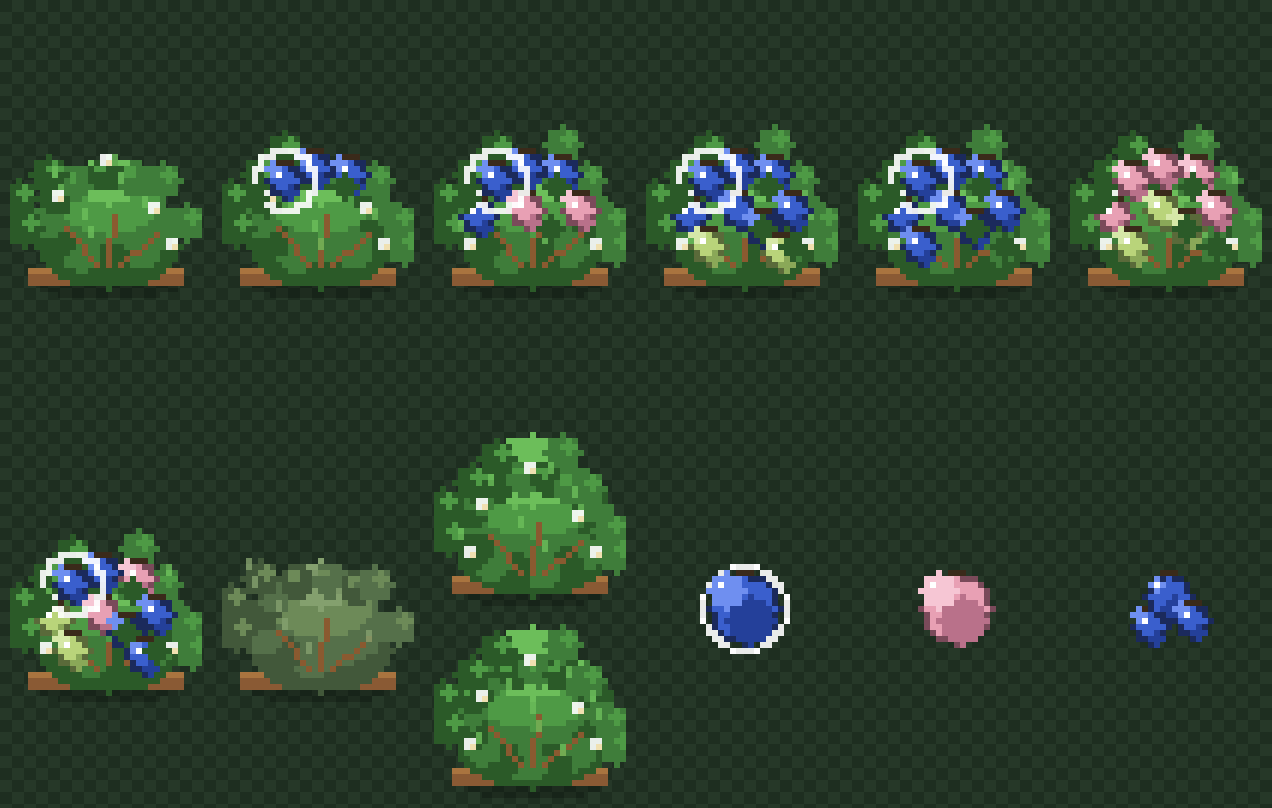
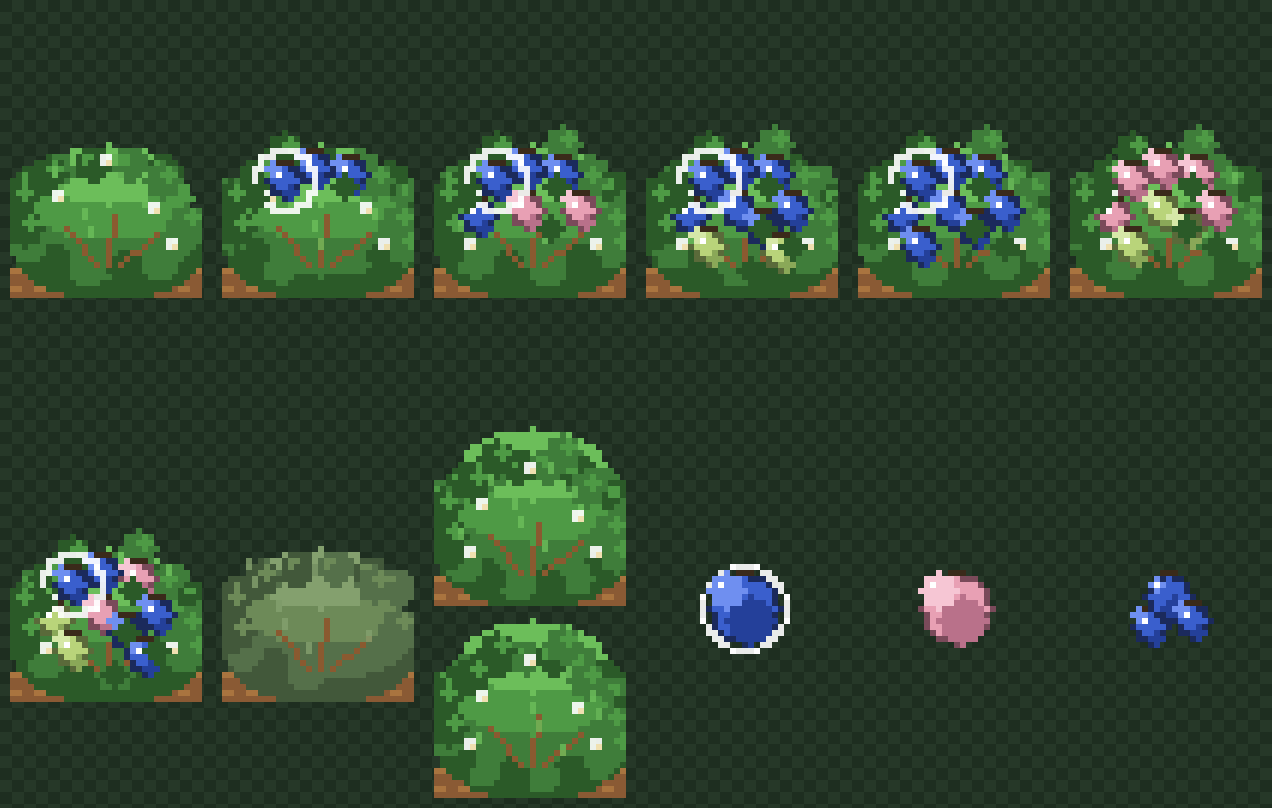
feat: hileras de cultivo continuas (setos sin huecos)
PROBLEMA
Las plantas se veian como matas sueltas: 'planta, hueco, planta,
hueco'. El campo parecia una rejilla de cuadrados en vez de lineas de
cultivo.

CAUSA 1 — el arte no llenaba el tile
Los PNG tenian las elipses centradas en x=16 con radios de 12-13 sobre
un lienzo de 32x32, asi que quedaban ~3 px vacios a cada lado, y el
monton de tierra solo medía 26 px de ancho. Al colocar dos plantas
seguidas se veia el suelo entre ellas.
Ahora el follaje y la tierra llegan a los BORDES del tile, asi que las
plantas contiguas se funden en una linea continua.

CAUSA 2 — faltaban plantas en el campo
El generador repartia solo 'plantsPerRow' plantas (6) a lo largo de las
filas del campo (9), dejando 3 filas vacias en cada linea.
Ahora cada fila del campo lleva una planta, asi que la hilera se ve
continua de arriba abajo.

La dificultad NO cambia: el objetivo del nivel es 'targetHarvest' (una
cantidad de frutos), no el numero de matas. 'plantsPerRow' se conserva
como densidad: define que filas llevan frutos.

Arte regenerado (114 PNG). Pruebas: 156 en 12 suites.

diff --git a/tools/artPlants.js b/tools/artPlants.js
@@ -68,23 +68,32 @@ export function drawPlantBase({
   c.ellipse(cx, 29, 12, 3, PAL.shadow, 0.22);
 
   // ---- Montículo de tierra ----
-  c.rect(3, 27, 26, 3, PAL.soilDark);
-  c.rect(3, 27, 26, 1, PAL.soil);
+  // Ancho COMPLETO: la tierra tiene que tocar los bordes del tile para
+  // que las plantas contiguas formen una hilera continua sin cortes.
+  c.rect(0, 27, PLANT_W, 4, PAL.soilDark);
+  c.rect(0, 27, PLANT_W, 1, PAL.soil);
+  // Matas de tierra sueltas en el borde inferior (da textura de arado)
+  c.rect(0, 30, PLANT_W, 2, PAL.soilDark);
+  for (let i = 0; i < PLANT_W; i += 4) {
+    c.rect(i, 30, 2, 1, PAL.soil);
+  }
 
-  // ---- Estructura principal: varias capas de elipses solapadas ----
-  // (da volumen de mata tupida, no un bloque plano)
+  // ---- Estructura principal: capas de elipses solapadas ----
+  // Los radios se amplían hasta cubrir TODO el ancho del tile: antes
+  // quedaban 3 px vacíos a cada lado y las plantas se veían como matas
+  // sueltas en vez de una línea de cultivo continua.
   const layers = tall
     ? [
-        { y: 22, rx: 13, ry: 8, col: leafDark },
-        { y: 18, rx: 12, ry: 8, col: leafMid },
-        { y: 13, rx: 11, ry: 7, col: leafLight },
-        { y: 9, rx: 8, ry: 6, col: leafHi },
+        { y: 23, rx: 16, ry: 9, col: leafDark },
+        { y: 19, rx: 16, ry: 9, col: leafMid },
+        { y: 13, rx: 15, ry: 8, col: leafLight },
+        { y: 8, rx: 12, ry: 6, col: leafHi },
       ]
     : [
-        { y: 23, rx: 12, ry: 7, col: leafDark },
-        { y: 19, rx: 11, ry: 7, col: leafMid },
-        { y: 15, rx: 9, ry: 6, col: leafLight },
-        { y: 12, rx: 6, ry: 4, col: leafHi },
+        { y: 24, rx: 16, ry: 8, col: leafDark },
+        { y: 20, rx: 16, ry: 8, col: leafMid },
+        { y: 15, rx: 14, ry: 7, col: leafLight },
+        { y: 11, rx: 10, ry: 5, col: leafHi },
       ];
 
   layers.forEach((l) => {
@@ -94,13 +103,15 @@ export function drawPlantBase({
 
   // ---- Textura de hojas: bultos irregulares en el borde ----
   // Determinista a partir de la semilla: cada planta se ve algo distinta.
-  const bumps = tall ? 16 : 12;
+  // Los bultos también llegan a los bordes para que la hilera se vea
+  // tupida y continua.
+  const bumps = tall ? 20 : 16;
   for (let i = 0; i < bumps; i += 1) {
     if (i / bumps > density + 0.1) continue;
 
     const a = (i / bumps) * Math.PI * 2 + seed;
-    const rx = (tall ? 12 : 11) - 1;
-    const ry = (tall ? 9 : 8) - 1;
+    const rx = 16;
+    const ry = (tall ? 10 : 9);
     const bx = cx + Math.cos(a) * rx;
     const by = 18 + Math.sin(a) * ry;
 

diff --git a/src/game/map/MapGenerator.js b/src/game/map/MapGenerator.js
@@ -135,17 +135,33 @@ export class MapGenerator {
       basketCapacity = 30,
     } = levelConfig;
 
-    plantColumns.forEach((col, colIndex) => {
-      // El nivel define cuántas plantas debe tener cada línea. El campo
-      // puede ser más alto que ese número de filas, así que las plantas
-      // se reparten uniformemente a lo largo de la línea para que el
-      // campo se vea lleno sin cambiar la cantidad total (§20).
-      const plantRows = distributeRows(plantsPerRow, fieldStartRow, fieldEndRow);
+    plantColumns.forEach((col) => {
+      // HILERA CONTINUA (§3).
+      //
+      // Antes se repartían solo `plantsPerRow` plantas a lo largo de la
+      // línea, dejando filas vacías: en pantalla se veía "planta, hueco,
+      // planta, hueco" en vez de una línea de cultivo tupida.
+      //
+      // Ahora se coloca una planta en CADA fila del campo, así que la
+      // hilera se ve continua de arriba abajo. La dificultad del nivel
+      // NO depende del número de matas (el objetivo es `targetHarvest`,
+      // una cantidad de frutos), así que llenar el campo no la altera.
+      //
+      // `plantsPerRow` se conserva como densidad: define cuántos de
+      // esos huecos de cultivo llevan frutos.
+      const plantRows = [];
+      for (let row = fieldStartRow; row <= fieldEndRow; row += 1) {
+        plantRows.push(row);
+      }
+
+      // Filas que llevan frutos: las que marca el nivel, repartidas
+      // uniformemente para que la cosecha quede bien distribuida.
+      const fruitRows = new Set(distributeRows(plantsPerRow, fieldStartRow, fieldEndRow));
 
       plantRows.forEach((row) => {
         // La planta vive en el tile; los frutos se colocan a sus lados
         // accesibles desde los caminos contiguos.
-        const hasFruit = rng() < fruitChance;
+        const hasFruit = fruitRows.has(row) && rng() < fruitChance;
         const fruits = [];
 
         if (hasFruit) {
@@ -184,7 +200,7 @@ export class MapGenerator {
         }
 
         plants.push({
-          id: `p-${colIndex}-${row}`,
+          id: `p-${col}-${row}`,
           col,
           row,
           x: col * TILE_SIZE,

diff --git a/tests/mapGenerator.test.js b/tests/mapGenerator.test.js
@@ -29,8 +29,17 @@ describe('MapGenerator', () => {
 
     expect(world.cols).toBe(TILE_COLUMNS_FOR_VIEW(level.rows));
     expect(world.tileMap.rows).toBe(TILE_ROWS_FOR(level.plantsPerRow));
-    // Cada línea tiene exactamente las plantas que define el nivel.
-    expect(world.plants.length).toBe(level.rows * level.plantsPerRow);
+
+    // HILERA CONTINUA (§3): cada línea de cultivo lleva una planta en
+    // CADA fila del campo (antes se repartían solo `plantsPerRow` y
+    // quedaban huecos que se veían como matas sueltas).
+    const fieldRows = FIELD_ROWS_FOR(level.plantsPerRow);
+    expect(world.plants.length).toBe(level.rows * fieldRows);
+
+    // El nivel define cuántas de esas plantas llevan frutos.
+    const withFruit = world.plants.filter((p) => p.fruits.length > 0).length;
+    expect(withFruit).toBeGreaterThan(0);
+    expect(withFruit).toBeLessThanOrEqual(level.rows * level.plantsPerRow);
   });
 
   it('el mapa CUBRE el área útil entre los dos HUD (§7, §11)', () => {

diff --git a/public/assets/ASSET_MANIFEST.md b/public/assets/ASSET_MANIFEST.md
@@ -13,7 +13,7 @@
 | Assets DEFINITIVO | **114** |
 | Assets PLACEHOLDER | **0** |
 | Assets PENDIENTE | **0** |
-| Peso total | **30.2 KB** |
+| Peso total | **30.3 KB** |
 
 ### Estados
 
@@ -72,16 +72,16 @@
 
 | ID | Ruta | Tipo | Tamaño | Frames | Estado | Uso | Peso |
 |---|---|---|---|---|---|---|---|
-| `plants_empty` | `assets/plants/plant_empty.png` | png | 32x32 | 1 | DEFINITIVO | vacía | 0.45 KB |
+| `plants_empty` | `assets/plants/plant_empty.png` | png | 32x32 | 1 | DEFINITIVO | vacía | 0.47 KB |
 | `plants_few` | `assets/plants/plant_few.png` | png | 32x32 | 1 | DEFINITIVO | pocos frutos | 0.55 KB |
-| `plants_medium` | `assets/plants/plant_medium.png` | png | 32x32 | 1 | DEFINITIVO | media | 0.60 KB |
-| `plants_abundant` | `assets/plants/plant_abundant.png` | png | 32x32 | 1 | DEFINITIVO | abundante | 0.61 KB |
-| `plants_ripe` | `assets/plants/plant_ripe.png` | png | 32x32 | 1 | DEFINITIVO | madura | 0.59 KB |
-| `plants_unripe` | `assets/plants/plant_unripe.png` | png | 32x32 | 1 | DEFINITIVO | pintona | 0.56 KB |
-| `plants_mixed` | `assets/plants/plant_mixed.png` | png | 32x32 | 1 | DEFINITIVO | mixta | 0.67 KB |
-| `plants_harvested` | `assets/plants/plant_harvested.png` | png | 32x32 | 1 | DEFINITIVO | cosechada | 0.41 KB |
-| `plants_base` | `assets/plants/plant_base.png` | png | 32x32 | 1 | DEFINITIVO | follaje base sin frutos | 0.50 KB |
-| `plants_row` | `assets/plants/plant_row.png` | png | 32x64 | 1 | DEFINITIVO | hilera alta de cultivo (32x64) | 0.74 KB |
+| `plants_medium` | `assets/plants/plant_medium.png` | png | 32x32 | 1 | DEFINITIVO | media | 0.63 KB |
+| `plants_abundant` | `assets/plants/plant_abundant.png` | png | 32x32 | 1 | DEFINITIVO | abundante | 0.63 KB |
+| `plants_ripe` | `assets/plants/plant_ripe.png` | png | 32x32 | 1 | DEFINITIVO | madura | 0.61 KB |
+| `plants_unripe` | `assets/plants/plant_unripe.png` | png | 32x32 | 1 | DEFINITIVO | pintona | 0.58 KB |
+| `plants_mixed` | `assets/plants/plant_mixed.png` | png | 32x32 | 1 | DEFINITIVO | mixta | 0.68 KB |
+| `plants_harvested` | `assets/plants/plant_harvested.png` | png | 32x32 | 1 | DEFINITIVO | cosechada | 0.42 KB |
+| `plants_base` | `assets/plants/plant_base.png` | png | 32x32 | 1 | DEFINITIVO | follaje base sin frutos | 0.49 KB |
+| `plants_row` | `assets/plants/plant_row.png` | png | 32x64 | 1 | DEFINITIVO | hilera alta de cultivo (32x64) | 0.77 KB |
 
 ---
 
